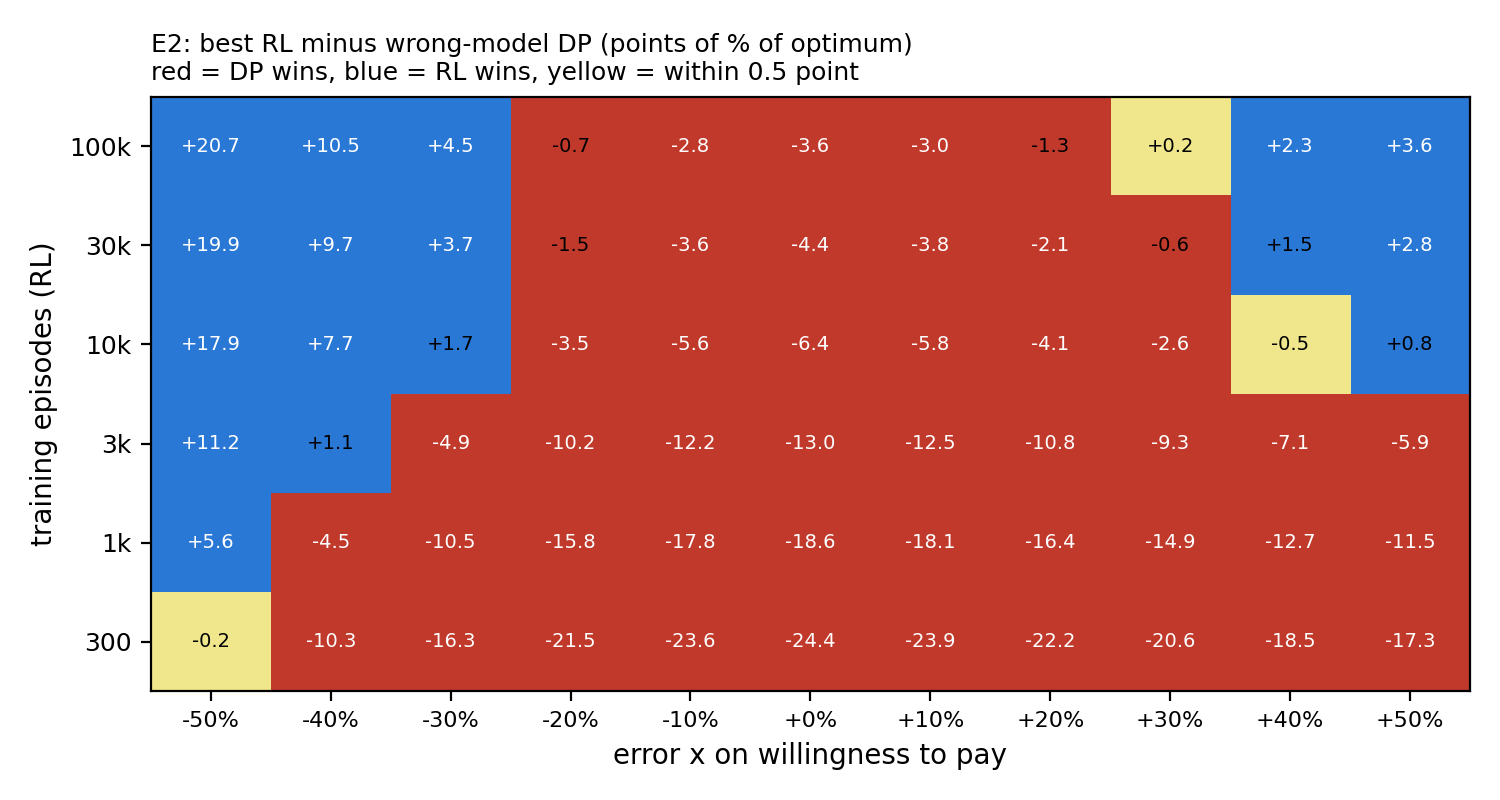
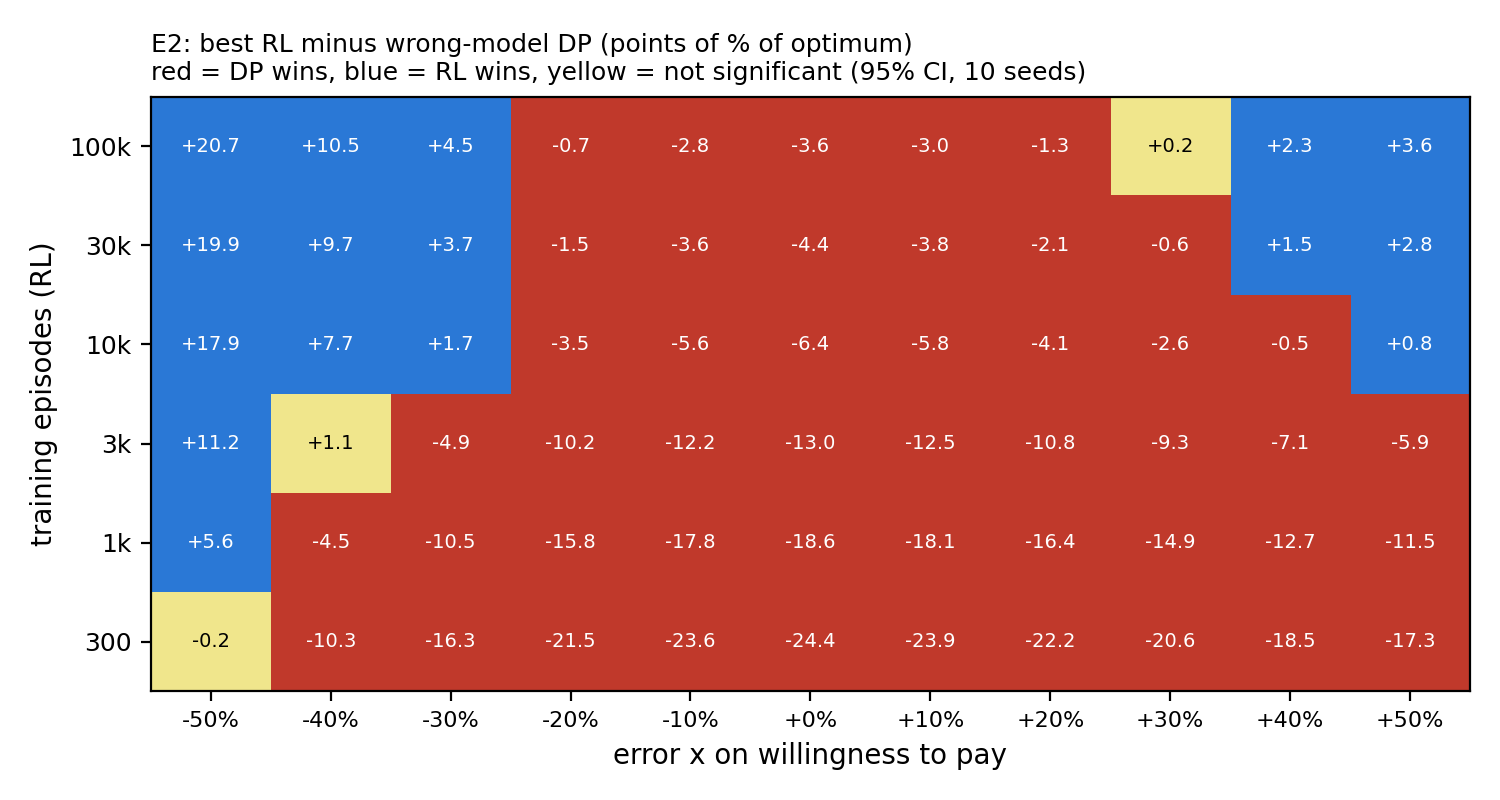
Add 95% confidence intervals over the 10 seeds
aggregate.py rereads the saved per-seed results without retraining. The E2
map now counts a win only when it is significant at the 95% level: at -40%,
RL needs 10,000 episodes, not 3,000. The RL plateau (upper bound 97.0%) is
significantly below the rising-price heuristic (97.7%).

closes #20

diff --git a/report/report.tex b/report/report.tex
@@ -55,7 +55,7 @@ As $V^*(\cdot,t)$ only depends on $V^*(\cdot,t-1)$, one backward sweep is exact.
 \textbf{Model error.} The DP plans with both WTP means multiplied by $(1+x)$, $x\in[-50,+50]\,\%$ (an error on $\lambda$ costs at most 5\,\%).
 \textbf{Q-learning, SARSA.} Tabular, $Q=0$, $\varepsilon$-greedy with $\varepsilon$ decaying exponentially from 1 to 0.01 over the episode budget; $\alpha_n = 0.5/(1+40\,n/N)$ at episode $n$ of a budget of $N$ (a constant $\alpha$ does not converge in this stochastic environment: Q-values keep oscillating and the greedy action flips). These values were selected among 9 configurations by the best worst case over seeds. Both methods only interact with the simulator, never with the demand model.
 \textbf{Baselines.} Best fixed price; best linearly rising price.
-\textbf{Evaluation.} All policies are scored on the \emph{true} model by exact policy evaluation (cross-checked with 10\,000 simulated flights), as a percentage of the optimal revenue; learning methods use 10 seeds.
+\textbf{Evaluation.} All policies are scored on the \emph{true} model by exact policy evaluation (cross-checked with 10\,000 simulated flights), as a percentage of the optimal revenue; learning methods use 10 seeds and are reported with 95\,\% confidence intervals of the mean (Student).
 Checks: the DP value lies in the 95\,\% confidence interval of its simulated revenue; no wrong-model DP or baseline beats it.
 
 \section{Results}
@@ -68,13 +68,13 @@ Policy & Revenue & \% opt. & Load \\
 DP (optimum) & 1\,193.5\,\euro & 100.0 & 77\,\% \\
 Rising price 140$\to$170\,\euro & 1\,166.1\,\euro & 97.7 & 74\,\% \\
 Fixed price 170\,\euro & 1\,146.7\,\euro & 96.1 & 68\,\% \\
-Q-learning (30k episodes, 10 seeds) & 1\,141.5\,\euro & 95.6 & 84\,\% \\
-SARSA (30k episodes, 10 seeds) & 1\,132.2\,\euro & 94.9 & 85\,\% \\
-Q-learning (100k episodes, 10 seeds) & 1\,150.3\,\euro & 96.4 & 86\,\% \\
-SARSA (100k episodes, 10 seeds) & 1\,150.2\,\euro & 96.4 & 86\,\% \\
+Q-learning (30k episodes) & 1\,141.5\,\euro & 95.6\,$\pm$\,0.3 & 84\,\% \\
+SARSA (30k episodes) & 1\,132.2\,\euro & 94.9\,$\pm$\,0.3 & 85\,\% \\
+Q-learning (100k episodes) & 1\,150.3\,\euro & 96.4\,$\pm$\,0.5 & 86\,\% \\
+SARSA (100k episodes) & 1\,150.2\,\euro & 96.4\,$\pm$\,0.2 & 86\,\% \\
 \bottomrule
 \end{tabular}
-\caption{Expected revenue per flight on the true model.}
+\caption{Expected revenue per flight on the true model. Learning methods: mean over 10 seeds $\pm$ 95\,\% CI.}
 \label{tab:main}
 \end{table}
 
@@ -90,20 +90,20 @@ A rising price already reaches 97.7\,\% (Table~\ref{tab:main}), consistent with 
 
 \textbf{E2: tipping point between planning and learning} (Fig.~\ref{fig:e2}). The DP stays above 97\,\% for $|x|\le20\,\%$.
 Errors are asymmetric: underestimating the WTP ($x=-50\,\%$) drops DP to 75.8\,\% because seats sell out too cheaply, against 92.9\,\% at $+50\,\%$.
-Model-free RL therefore beats the wrong DP (by more than 0.5 point) with $1\,000$ episodes at $x=-50\,\%$, $3\,000$ at $-40\,\%$ and $10\,000$ at $-30\,\%$.
+Model-free RL therefore beats the wrong DP, significantly at the 95\,\% level, with $1\,000$ episodes at $x=-50\,\%$ and $10\,000$ at $-40\,\%$ and $-30\,\%$.
 When the WTP is overestimated, the DP is more resilient: RL only wins at $+40\,\%$ ($30\,000$ episodes) and $+50\,\%$ ($10\,000$). For $-20\,\%\le x\le+30\,\%$, the DP wins or ties at every budget.
 
 \begin{figure}[t]
 \centering
 \includegraphics[width=\columnwidth]{e2_winner_map.png}
-\caption{E2: Winning method across model error and episode budget (blue = RL wins, red = DP wins, yellow = within 0.5\,\%).}
+\caption{E2: Winning method across model error and episode budget (blue = RL wins, red = DP wins, yellow = not significant at 95\,\%).}
 \label{fig:e2}
 \end{figure}
 
 \textbf{E4: discount factor.} A DP optimising a discounted criterion sells seats too early: with $\gamma=0.5$ it sells 6.8 seats before business customers arrive (4.1 with $\gamma=1$) and earns 83.7\,\% of the optimum (97.8\,\% with $\gamma=0.9$).
 Q-learning (30\,000 episodes, 10 seeds) shows the same myopia: 95.6\,\% ($\gamma=1$), 89.7\,\% ($\gamma=0.9$) and 74.7\,\% ($\gamma=0.5$), selling 7.1 seats before business customers arrive.
 
-\textbf{E1 \& E3: learning budget and policy heatmaps.} Q-learning reaches 95\,\% of the optimum from 30\,000 episodes on average over 10 seeds (95.6\,\% $\pm$ 0.5), and both Q-learning and SARSA plateau at 96.4\,\% at 100\,000 episodes, still below the rising-price heuristic (97.7\,\%).
+\textbf{E1 \& E3: learning budget and policy heatmaps.} Q-learning reaches 95\,\% of the optimum from 30\,000 episodes (95.6\,\%, CI [95.3, 96.0]), and both methods plateau at 96.4\,\% at 100\,000 episodes, significantly below the rising-price heuristic (97.7\,\%; upper CI bound 97.0\,\%).
 Off-policy Q-learning converges faster at intermediate budgets (93.6\,\% vs 91.0\,\% at 10k), while SARSA has lower variance at convergence (0.3 vs 0.7\,\%).
 Heatmaps show that RL captures the structure of the optimal policy; 21 of the 300 states (few seats left very early) are never learned because they are almost never reached, and rarely visited states remain noisy at little cost in revenue.
 

diff --git a/experiments/aggregate.py b/experiments/aggregate.py
@@ -1,0 +1,85 @@
+"""
+Agrégation multi-seeds + intervalles de confiance (issue #20).
+
+Relit les résultats bruts des 10 seeds (E1, E4) sans rien relancer, et calcule pour chaque
+configuration la moyenne et l'intervalle de confiance à 95 % de la moyenne (loi de Student,
+n - 1 degrés de liberté). Vérifie aussi, pour E2, si chaque victoire du RL sur la DP-faux
+est significative : la DP-faux est déterministe, donc le RL gagne significativement quand
+la borne basse de son IC dépasse le score de la DP-faux.
+
+Lancer depuis la racine du repo :  python experiments/aggregate.py
+Sortie : results/summary_ci.csv
+"""
+
+import csv
+import os
+from collections import defaultdict
+
+import numpy as np
+from scipy import stats
+
+ROOT = os.path.join(os.path.dirname(__file__), "..")
+RESULTS = os.path.join(ROOT, "results")
+
+
+def mean_ci(values, level=0.95):
+    """Moyenne et demi-largeur de l'IC de la moyenne (Student)."""
+    values = np.asarray(values, dtype=float)
+    n = len(values)
+    half = stats.t.ppf((1 + level) / 2, n - 1) * values.std(ddof=1) / np.sqrt(n)
+    return values.mean(), half
+
+
+def read(name):
+    with open(os.path.join(RESULTS, name), encoding="utf-8") as f:
+        return list(csv.DictReader(f))
+
+
+summary = []
+
+# --- E1 : Q-learning et SARSA selon le budget d'épisodes
+groups = defaultdict(list)
+for r in read("e1_convergence.csv"):
+    groups[(r["method"], int(r["budget"]))].append(float(r["pct_optimum"]))
+for (method, budget), pcts in sorted(groups.items()):
+    m, h = mean_ci(pcts)
+    summary.append({"experiment": "E1", "method": method, "setting": f"budget={budget}",
+                    "n_seeds": len(pcts), "mean_pct": m, "ci95_half_width": h, "ci95_low": m - h, "ci95_high": m + h})
+
+# --- E4 : Q-learning selon gamma (la DP est exacte, pas d'IC)
+groups = defaultdict(list)
+for r in read("e4_comparison.csv"):
+    if r["method"] == "Q-learning":
+        groups[float(r["gamma"])].append(float(r["pct_optimum"]))
+for gamma, pcts in sorted(groups.items(), reverse=True):
+    m, h = mean_ci(pcts)
+    summary.append({"experiment": "E4", "method": "qlearning", "setting": f"gamma={gamma:g}",
+                    "n_seeds": len(pcts), "mean_pct": m, "ci95_half_width": h, "ci95_low": m - h, "ci95_high": m + h})
+
+with open(os.path.join(RESULTS, "summary_ci.csv"), "w", newline="", encoding="utf-8") as f:
+    writer = csv.DictWriter(f, fieldnames=summary[0].keys())
+    writer.writeheader()
+    for row in summary:
+        writer.writerow({k: round(v, 3) if isinstance(v, float) else v for k, v in row.items()})
+
+print(f"{'exp':<4} {'méthode':<10} {'réglage':<16} {'n':>3} {'moyenne':>8} {'IC 95 %':>18}")
+for s in summary:
+    print(f"{s['experiment']:<4} {s['method']:<10} {s['setting']:<16} {s['n_seeds']:>3} {s['mean_pct']:7.2f}% "
+          f"[{s['ci95_low']:6.2f} ; {s['ci95_high']:6.2f}]")
+
+# --- E2 : les victoires du RL sont-elles significatives ?
+ci = {(s["method"], int(s["setting"].split("=")[1])): s for s in summary if s["experiment"] == "E1"}
+print("\nE2 : cases où le meilleur RL bat la DP-faux de plus de 0,5 point")
+for r in read("e2_crossover.csv"):
+    x, budget, dp = float(r["error_x"]), int(r["budget"]), float(r["dp_faux_pct"])
+    best = max(("qlearning", "sarsa"), key=lambda m: ci[(m, budget)]["mean_pct"])
+    s = ci[(best, budget)]
+    if s["mean_pct"] - dp > 0.5:
+        verdict = "significatif" if s["ci95_low"] > dp else "NON significatif"
+        print(f"  x = {x:+.0%}, {budget:>6} épisodes : {best} {s['mean_pct']:.2f} "
+              f"[{s['ci95_low']:.2f} ; {s['ci95_high']:.2f}] vs DP-faux {dp:.2f} -> {verdict}")
+
+rising = 97.7
+best100k = max(ci[("qlearning", 100_000)], ci[("sarsa", 100_000)], key=lambda s: s["ci95_high"])
+print(f"\nPlafond du RL (100k) : borne haute de l'IC = {best100k['ci95_high']:.2f} % < prix croissant {rising} % : "
+      f"{'oui, significatif' if best100k['ci95_high'] < rising else 'non'}")

diff --git a/experiments/e2_crossover.py b/experiments/e2_crossover.py
@@ -60,7 +60,15 @@ for x in ERRORS:
 
 # --- 2. Côté RL (Q-learning + SARSA, pour chaque budget et seed) ---
 rl_results = {}  # (method, budget) -> mean_pct
+rl_ci = {}  # (method, budget) -> demi-largeur de l'IC à 95 % de la moyenne (Student, 10 seeds)
 rows = []
+
+
+def ci_half_width(pcts, level=0.95):
+    from scipy import stats
+    pcts = np.asarray(pcts, dtype=float)
+    return stats.t.ppf((1 + level) / 2, len(pcts) - 1) * pcts.std(ddof=1) / np.sqrt(len(pcts))
+
 t0 = time.time()
 
 e1_csv_path = os.path.join(ROOT, "results", "e1_convergence.csv")
@@ -77,6 +85,7 @@ if os.path.exists(e1_csv_path):
     for (m, b), pcts in e1_data.items():
         if b in BUDGETS:
             rl_results[(m, b)] = float(np.mean(pcts))
+            rl_ci[(m, b)] = float(ci_half_width(pcts))
             print(f"  {m:<10} budget={b:>7} -> {rl_results[(m, b)]:.1f}% ± {np.std(pcts):.1f}% (depuis E1)")
 else:
     METHODS = {"qlearning": train_qlearning, "sarsa": train_sarsa}
@@ -92,6 +101,7 @@ else:
                 pcts.append(pct)
             mean_pct = np.mean(pcts)
             rl_results[(method_name, budget)] = mean_pct
+            rl_ci[(method_name, budget)] = float(ci_half_width(pcts))
             print(f"  budget={budget:>7} -> {mean_pct:.1f}% ± {np.std(pcts):.1f}%  [{time.time()-t0:.0f}s]")
 
 
@@ -171,11 +181,12 @@ for i, budget in enumerate(BUDGETS):
         ql_pct = rl_results.get(("qlearning", budget), 0)
         sa_pct = rl_results.get(("sarsa", budget), 0)
         best_rl = max(ql_pct, sa_pct)
-        # 1 = RL gagne, 0 = DP-faux gagne, 0.5 = quasi-égal (< 0.5% diff)
-        diff = best_rl - dp_pct
-        if diff > 0.5:
+        half = rl_ci[("qlearning" if ql_pct >= sa_pct else "sarsa", budget)]
+        # La DP-faux est déterministe : le RL gagne significativement si la borne basse de son
+        # IC à 95 % dépasse la DP-faux, perd si la borne haute est en dessous, sinon non tranché.
+        if best_rl - half > dp_pct:
             winner_matrix[i, j] = 1.0
-        elif diff < -0.5:
+        elif best_rl + half < dp_pct:
             winner_matrix[i, j] = 0.0
         else:
             winner_matrix[i, j] = 0.5
@@ -192,7 +203,7 @@ ax2.set_yticklabels([f"{b//1000}k" if b >= 1000 else str(b) for b in BUDGETS], f
 ax2.set_xlabel("error x on willingness to pay")
 ax2.set_ylabel("training episodes (RL)")
 ax2.set_title("E2: best RL minus wrong-model DP (points of % of optimum)" + chr(10) +
-              "red = DP wins, blue = RL wins, yellow = within 0.5 point", loc="left", fontsize=9)
+              "red = DP wins, blue = RL wins, yellow = not significant (95% CI, 10 seeds)", loc="left", fontsize=9)
 
 # Annoter chaque case
 for i, budget in enumerate(BUDGETS):
@@ -203,7 +214,7 @@ for i, budget in enumerate(BUDGETS):
         best_rl = max(ql_pct, sa_pct)
         diff = best_rl - dp_pct
         ax2.text(j, i, f"{diff:+.1f}", ha="center", va="center", fontsize=7,
-                 color="white" if abs(diff) > 2 else "black")
+                 color="black" if winner_matrix[i, j] == 0.5 else "white")
 
 fig2.tight_layout()
 fig2_path = os.path.join(ROOT, "results", "figures", "e2_winner_map.png")
